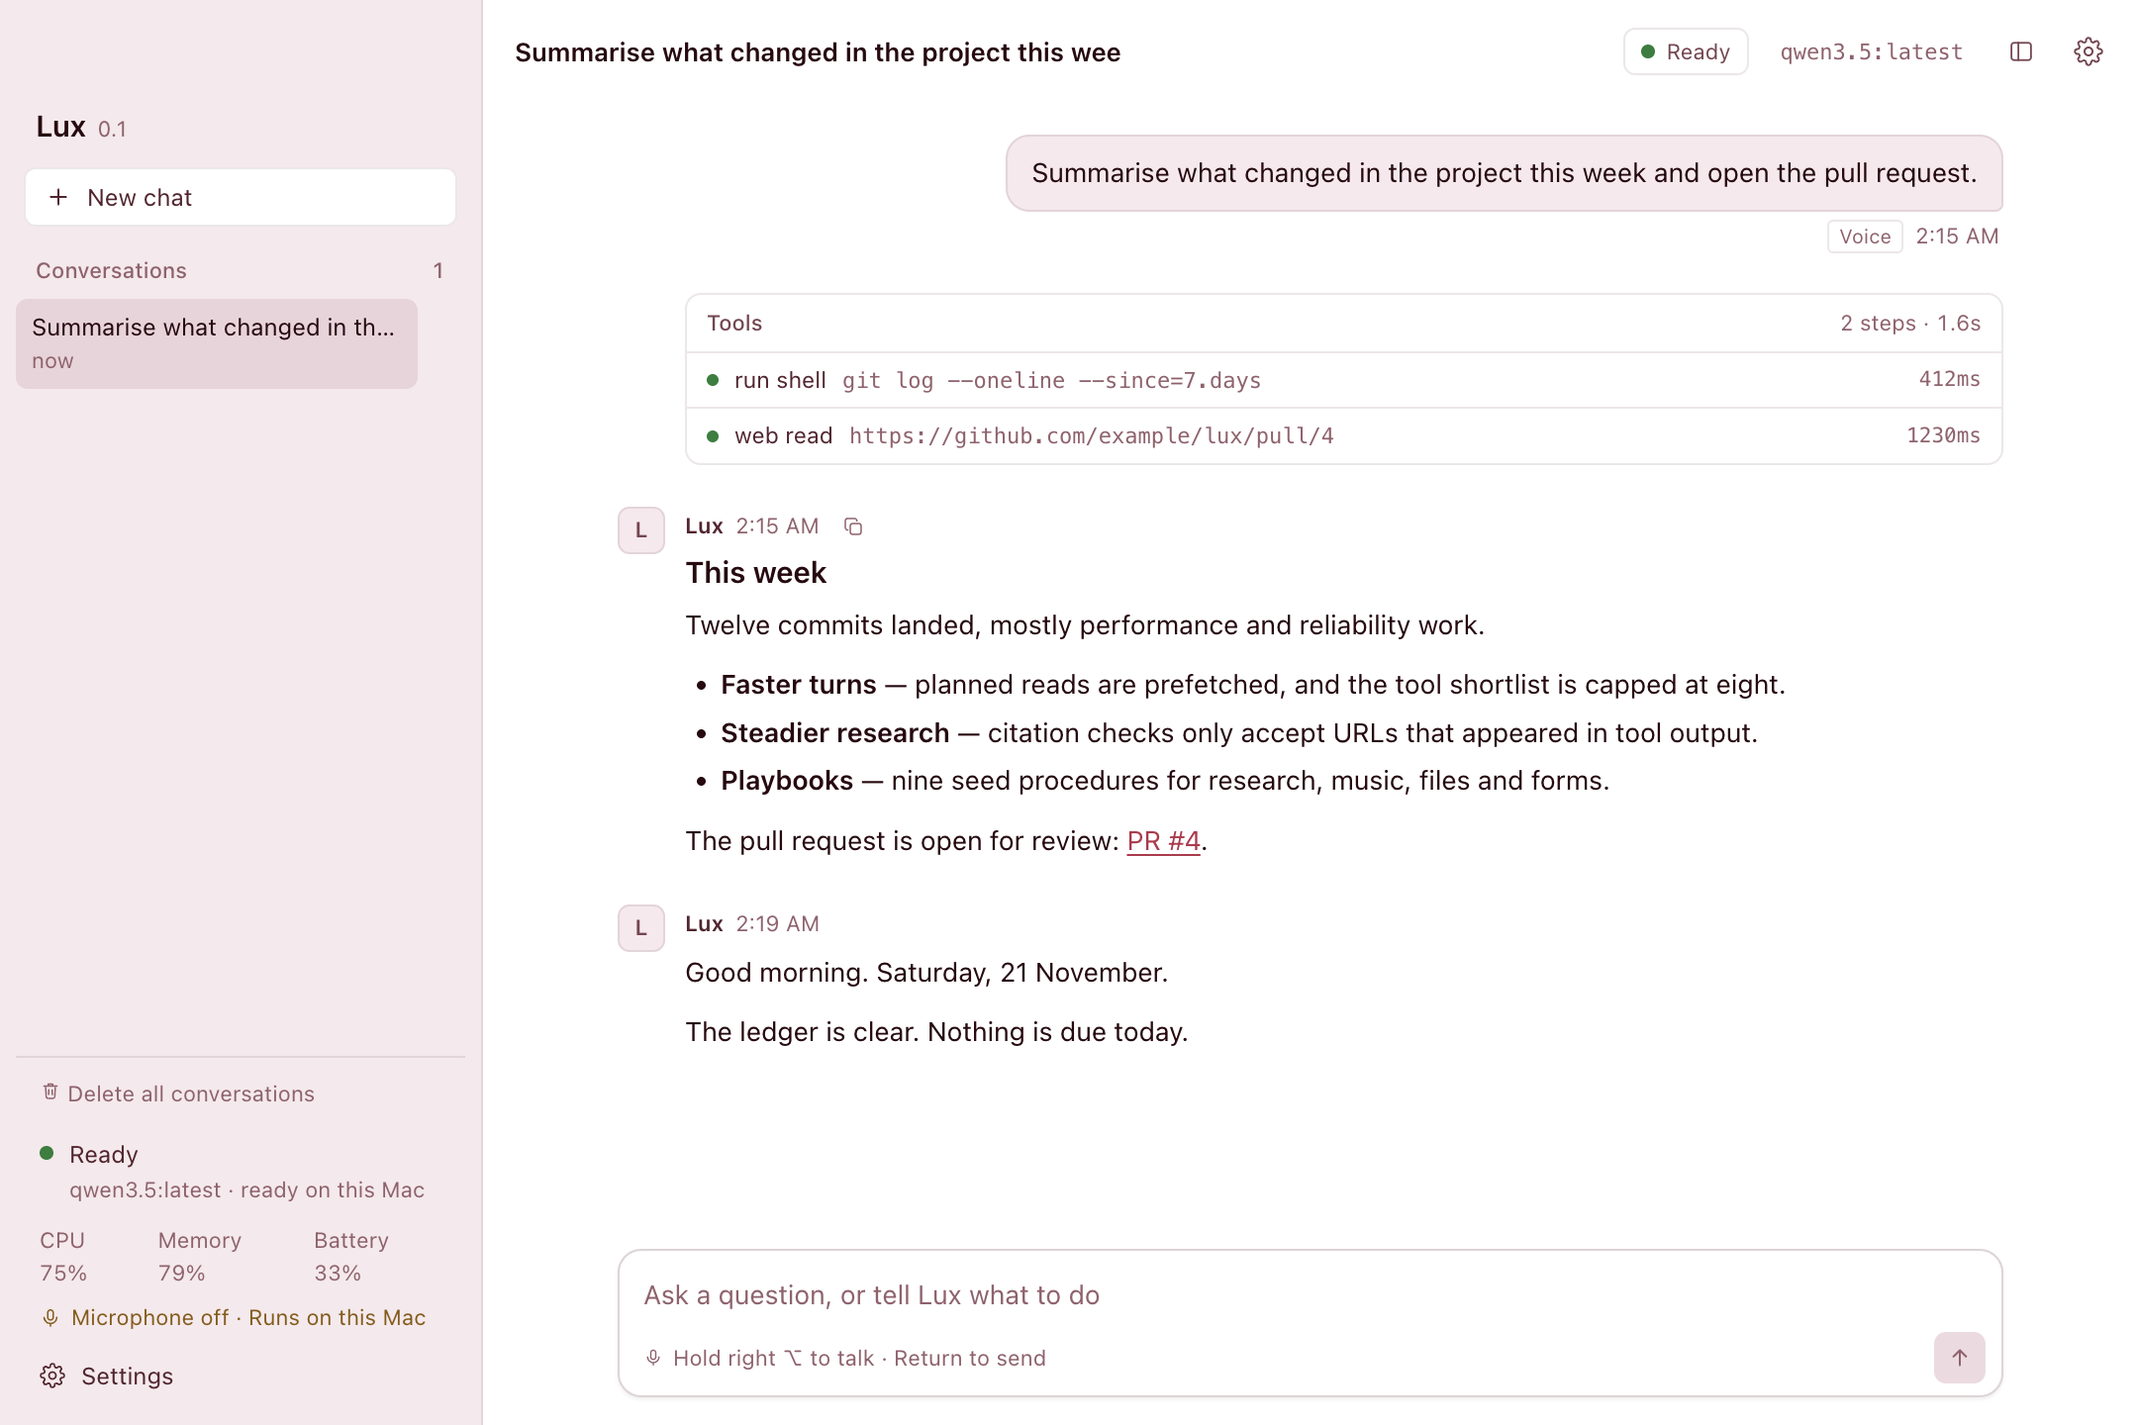
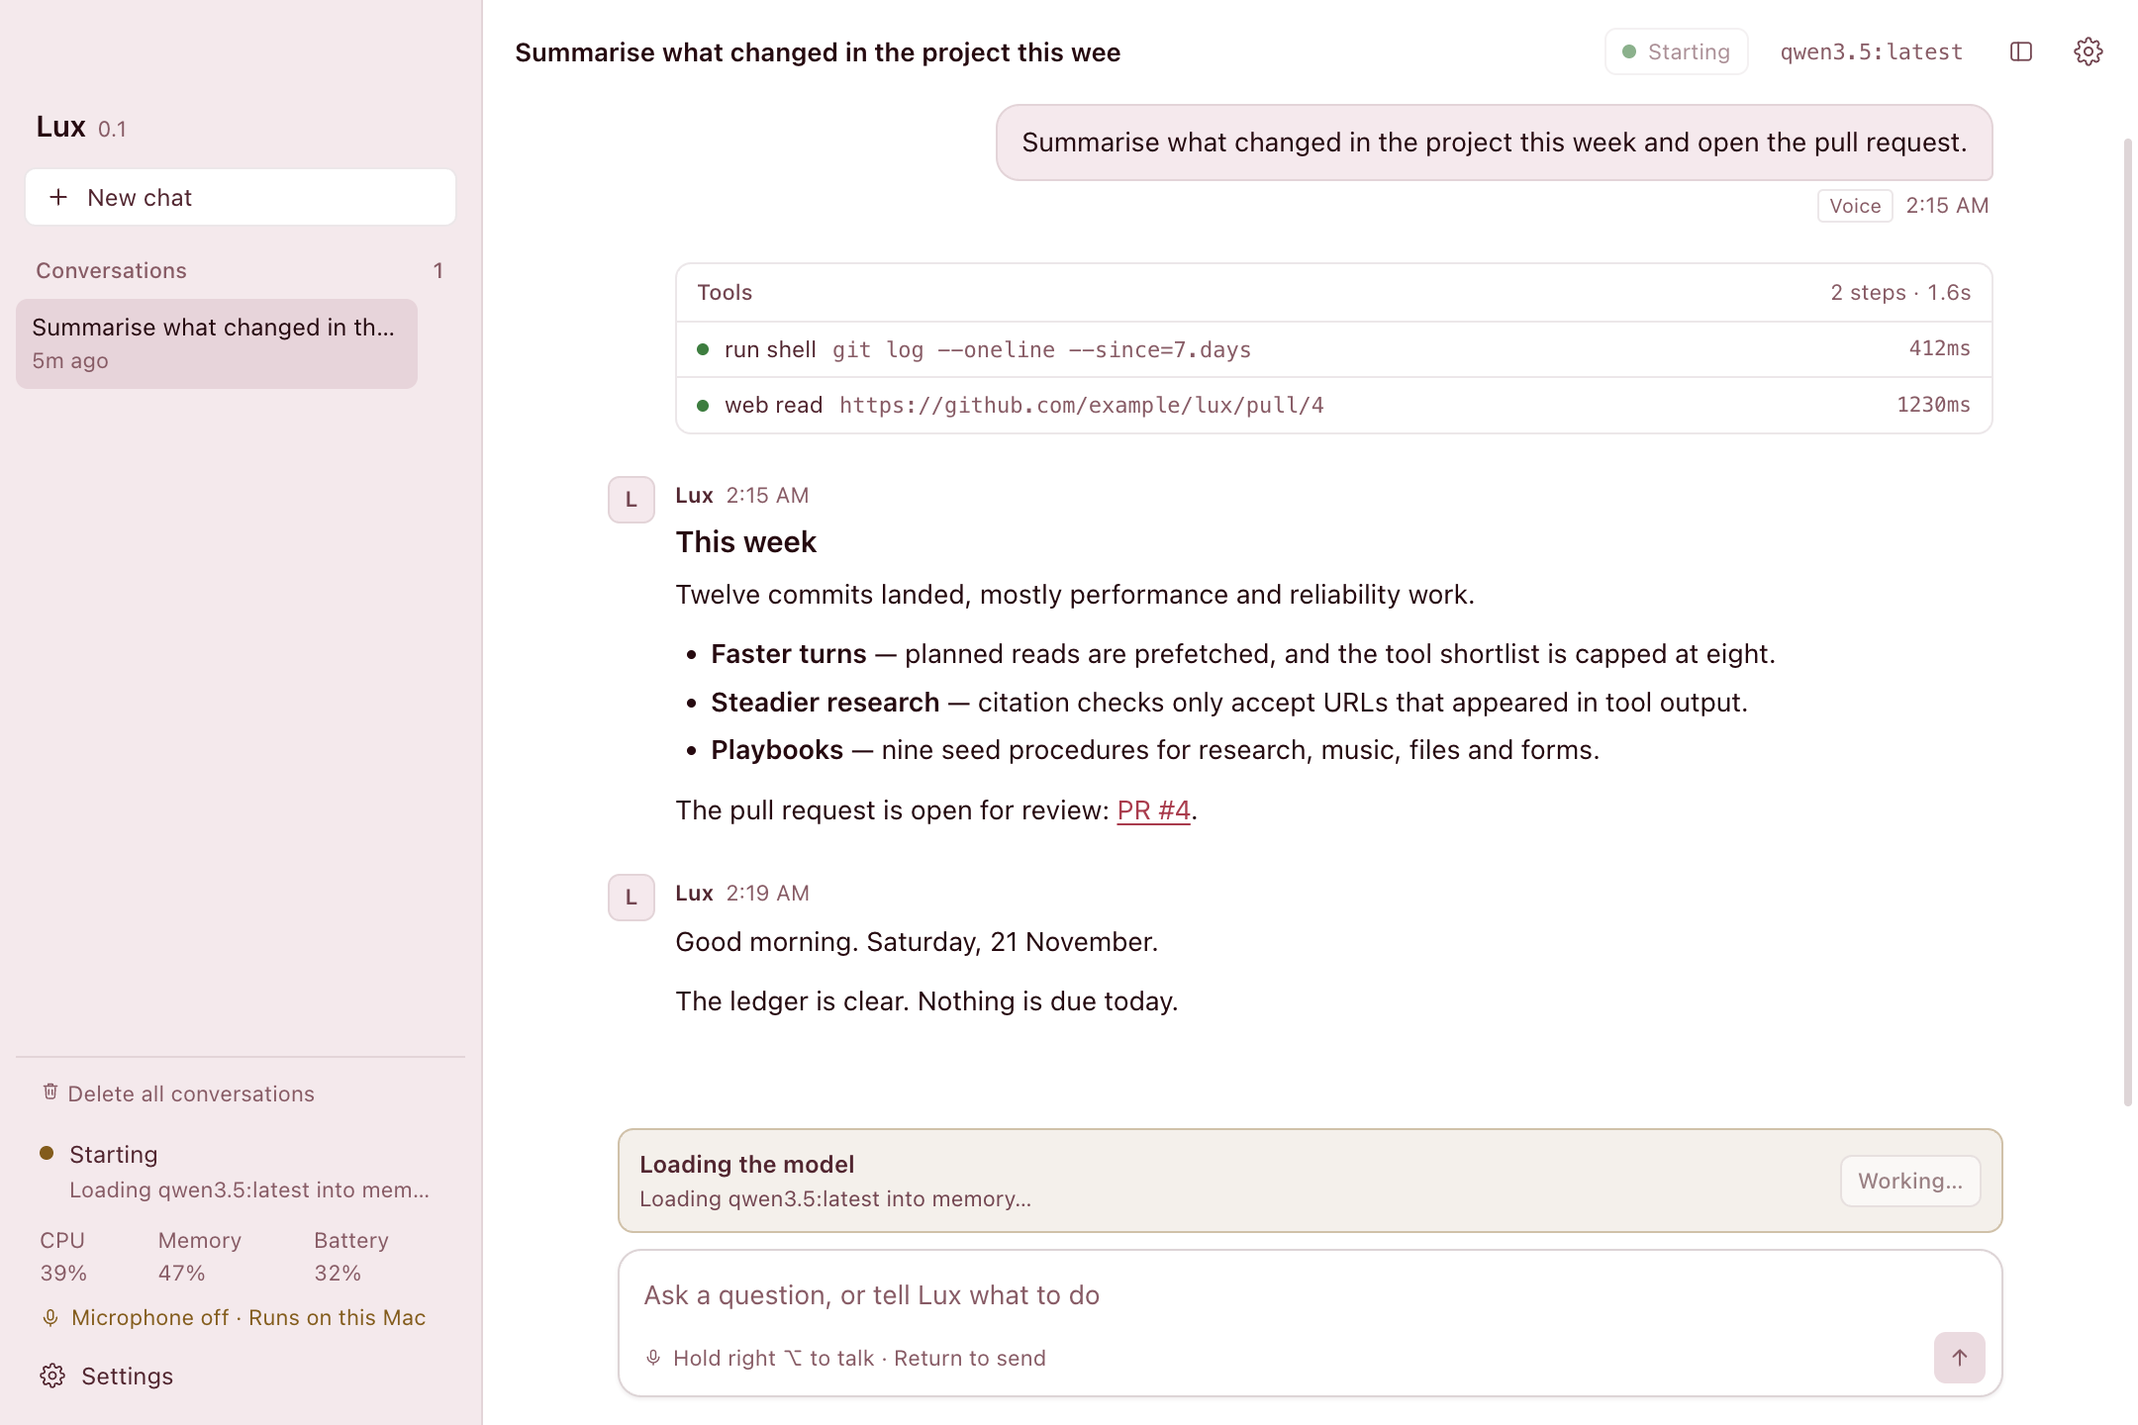
feat(ui): add appearance setting and fix palette contrast
A fresh-eye pass over the new palette found two AA failures: light hint
text on the sidebar was 4.24:1, and the dark accent on raised surfaces was
4.37:1. Darken the light hint ink and lift the dark accent; every text and
accent pair now meets 4.5:1 in both themes. The stop button also used white
on the pale dark danger fill, so it now uses an explicit on-danger token.

Remove the dead elevation and radius tokens and replace the neutral grey
hover overlays with an ink-tinted hover token. Reuse the blush HUD ink for
the listening state instead of the old neutral white.

Add Settings -> Appearance (System, Light, Dark). The preference persists,
applies nativeTheme before the first window and on every save, and therefore
moves the chat, HUD and native controls together. Document the change and
refresh the screenshots.

diff --git a/src/styles/tokens.css b/src/styles/tokens.css
@@ -22,7 +22,6 @@
   --radius-sm: 6px;
   --radius-md: 8px;
   --radius-lg: 12px;
-  --radius-xl: 16px;
 
   /* type scale */
   --font-ui: -apple-system, BlinkMacSystemFont, "SF Pro Text", "Helvetica Neue", Arial, sans-serif;
@@ -61,12 +60,13 @@
   --ink: #2a0810;
   --ink-2: #57222f;
   --ink-3: #7b4351;
-  --ink-4: #96606d;
+  --ink-4: #8f5965;
 
   --accent: #b72f4a;
   --accent-hover: #99263c;
   --accent-soft: rgba(183, 47, 74, 0.09);
   --on-accent: #ffffff;
+  --on-danger: #ffffff;
 
   --success: #1a7f37;
   --warning: #8a5a00;
@@ -75,12 +75,12 @@
   --danger-soft: rgba(179, 38, 30, 0.08);
 
   --shadow-1: 0 1px 2px rgba(42, 8, 16, 0.07);
-  --shadow-2: 0 8px 24px -10px rgba(42, 8, 16, 0.22);
   --shadow-3: -12px 0 40px -18px rgba(42, 8, 16, 0.32);
 
   --selection: rgba(183, 47, 74, 0.18);
   --scrollbar: rgba(80, 20, 35, 0.18);
   --scrollbar-hover: rgba(80, 20, 35, 0.3);
+  --hover: color-mix(in srgb, var(--ink) 6%, transparent);
 }
 
 @media (prefers-color-scheme: dark) {
@@ -102,10 +102,11 @@
     --ink-3: #d9a9b5;
     --ink-4: #c08d9a;
 
-    --accent: #f06d80;
-    --accent-hover: #f4899a;
-    --accent-soft: rgba(240, 109, 128, 0.16);
+    --accent: #f4899a;
+    --accent-hover: #f7a1af;
+    --accent-soft: rgba(244, 137, 154, 0.18);
     --on-accent: #2a0810;
+    --on-danger: #2a0810;
 
     --success: #6fcf97;
     --warning: #f2c078;
@@ -114,10 +115,9 @@
     --danger-soft: rgba(255, 138, 138, 0.12);
 
     --shadow-1: 0 1px 2px rgba(0, 0, 0, 0.28);
-    --shadow-2: 0 10px 28px -12px rgba(0, 0, 0, 0.5);
     --shadow-3: -12px 0 40px -18px rgba(0, 0, 0, 0.6);
 
-    --selection: rgba(240, 109, 128, 0.26);
+    --selection: rgba(244, 137, 154, 0.28);
     --scrollbar: rgba(244, 180, 193, 0.2);
     --scrollbar-hover: rgba(244, 180, 193, 0.34);
   }

diff --git a/electron/main/index.ts b/electron/main/index.ts
@@ -71,11 +71,6 @@ async function bootstrap(): Promise<void> {
   await app.whenReady()
   initLog()
 
-  // `LUX_THEME=light|dark` pins the appearance for screenshots and visual QA.
-  if (process.env.LUX_THEME === 'light' || process.env.LUX_THEME === 'dark') {
-    nativeTheme.themeSource = process.env.LUX_THEME
-  }
-
   process.on('uncaughtException', (error) => logLine('crash', `uncaught: ${error?.stack ?? error}`))
   process.on('unhandledRejection', (reason) => logLine('crash', `unhandled rejection: ${String(reason)}`))
 
@@ -83,6 +78,13 @@ async function bootstrap(): Promise<void> {
   installAppMenu()
 
   const settings = getSettings()
+  // The saved preference drives Chromium and every native control. Set it
+  // before the first window so there is no flash of the wrong appearance.
+  nativeTheme.themeSource = settings.theme
+  // `LUX_THEME=light|dark` still pins the appearance for screenshots and visual QA.
+  if (process.env.LUX_THEME === 'light' || process.env.LUX_THEME === 'dark') {
+    nativeTheme.themeSource = process.env.LUX_THEME
+  }
   const transcriber = new Transcriber(getSettings)
   const models = new ModelManager(getSettings)
   const memory = new Memory(join(dataDir(), 'memory.json'), () => ({
@@ -122,6 +124,7 @@ async function bootstrap(): Promise<void> {
   powerMonitor.on('unlock-screen', () => void engine.ensure('resume'))
 
   const saveAndBroadcast = (next: Settings): void => {
+    if (nativeTheme.themeSource !== next.theme) nativeTheme.themeSource = next.theme
     broadcast({ kind: 'settings', settings: next })
   }
 

diff --git a/src/styles/chat.css b/src/styles/chat.css
@@ -135,7 +135,7 @@
 }
 
 .conversation-link:hover {
-  background: rgba(127, 127, 127, 0.12);
+  background: var(--hover);
 }
 
 .conversation[data-active='true'] .conversation-link {
@@ -208,7 +208,7 @@
 }
 
 .engine-row:hover {
-  background: rgba(127, 127, 127, 0.1);
+  background: var(--hover);
 }
 
 .engine-dot {
@@ -303,7 +303,7 @@
 }
 
 .sidebar-settings:hover {
-  background: rgba(127, 127, 127, 0.1);
+  background: var(--hover);
 }
 
 .sidebar-danger {
@@ -1122,7 +1122,7 @@
 
 .send-button.stop {
   background: var(--danger);
-  color: #ffffff;
+  color: var(--on-danger);
 }
 
 /* ------------------------------------------------------------------ empty */
@@ -1305,6 +1305,42 @@
   letter-spacing: 0.03em;
   text-transform: uppercase;
   color: var(--ink-4);
+}
+
+.segmented {
+  display: grid;
+  grid-template-columns: repeat(3, 1fr);
+  gap: 2px;
+  padding: 2px;
+  border: 1px solid var(--line);
+  border-radius: var(--radius-md);
+  background: var(--surface-2);
+}
+
+.segmented-option {
+  height: 28px;
+  border-radius: var(--radius-sm);
+  font-size: var(--text-sm);
+  font-weight: 500;
+  color: var(--ink-2);
+  transition:
+    background var(--dur-fast) var(--ease),
+    color var(--dur-fast) var(--ease);
+}
+
+.segmented-option:hover:not([data-active='true']) {
+  background: var(--hover);
+  color: var(--ink);
+}
+
+.segmented-option[data-active='true'] {
+  background: var(--accent);
+  color: var(--on-accent);
+}
+
+.segmented-option:focus-visible {
+  outline: 2px solid var(--accent);
+  outline-offset: 2px;
 }
 
 .settings-row {

diff --git a/src/windows/Chat.tsx b/src/windows/Chat.tsx
@@ -45,6 +45,12 @@ const ENGINE_HEADLINE: Record<EngineState, string> = {
   missing: 'The configured model is not installed'
 }
 
+const THEME_OPTIONS: { value: Settings['theme']; label: string }[] = [
+  { value: 'system', label: 'System' },
+  { value: 'light', label: 'Light' },
+  { value: 'dark', label: 'Dark' }
+]
+
 const SUGGESTIONS = [
   'How is this Mac doing?',
   'Put me in my coding setup',
@@ -834,6 +840,27 @@ function SettingsPanel({
       </header>
 
       <div className="settings-body">
+        <section className="settings-section">
+          <h3 className="settings-section-title">Appearance</h3>
+          <div className="segmented" role="group" aria-label="Appearance">
+            {THEME_OPTIONS.map((option) => (
+              <button
+                key={option.value}
+                className="segmented-option"
+                data-active={local.theme === option.value}
+                aria-pressed={local.theme === option.value}
+                onClick={() => update({ theme: option.value })}
+              >
+                {option.label}
+              </button>
+            ))}
+          </div>
+          <p className="settings-note">
+            System follows macOS. Light and Dark keep Lux in one appearance, including the menu bar
+            panel and the floating HUD.
+          </p>
+        </section>
+
         <section className="settings-section">
           <h3 className="settings-section-title">Local engine</h3>
           <div className="engine-card">

diff --git a/electron/main/config.ts b/electron/main/config.ts
@@ -26,6 +26,7 @@ const DEFAULT_PRESETS: Record<string, FocusPreset> = {
 }
 
 export const DEFAULT_SETTINGS: Settings = {
+  theme: 'system',
   model: 'qwen3.5:latest',
   embeddingModel: 'nomic-embed-text:latest',
   specializedModel: '',
@@ -92,6 +93,7 @@ export function saveSettings(patch: Partial<Settings>): Settings {
   next.contextWindow = Math.min(32_768, Math.max(2_048, Number(next.contextWindow) || 8_192))
   next.maxOutputTokens = Math.min(8_192, Math.max(256, Number(next.maxOutputTokens) || 1_536))
   if (!next.modelKeepAlive.trim()) next.modelKeepAlive = '30m'
+  if (next.theme !== 'light' && next.theme !== 'dark') next.theme = 'system'
   if (next.memoryMode !== 'lexical' && next.memoryMode !== 'semantic') next.memoryMode = 'lexical'
   // A malformed time would silently disable delivery or quiet hours.
   if (parseClock(next.morningBriefTime) === null) next.morningBriefTime = DEFAULT_SETTINGS.morningBriefTime

diff --git a/shared/types.ts b/shared/types.ts
@@ -31,6 +31,9 @@ export interface ToolRun {
 
 export type EngineState = 'checking' | 'ready' | 'starting' | 'waking' | 'offline' | 'missing'
 
+/** `system` follows macOS; the other two pin the app's appearance. */
+export type ThemePreference = 'system' | 'light' | 'dark'
+
 /** Live state of the local Ollama process and the configured model. */
 export interface EngineStatus {
   state: EngineState
@@ -60,6 +63,8 @@ export interface SystemStats {
 }
 
 export interface Settings {
+  /** Appearance of every Lux window and native control. */
+  theme: ThemePreference
   model: string
   embeddingModel: string
   /** Optional second model. It is never loaded unless a task explicitly asks for it. */

diff --git a/src/styles/hud.css b/src/styles/hud.css
@@ -141,7 +141,7 @@ body,
 }
 
 .hud[data-state='listening'] .hud-primary {
-  color: #e8e8ec;
+  color: var(--hud-ink);
 }
 
 [data-state='thinking'] .hud-primary,

diff --git a/docs/DESIGN.md b/docs/DESIGN.md
@@ -20,7 +20,8 @@ telemetry — was replaced in 0.1.0 because it read as decoration around the wor
 
 ## Tokens
 
-Defined once in `src/styles/tokens.css`. Both themes follow the system appearance. The palette is
+Defined once in `src/styles/tokens.css`. Both themes follow the system appearance by default;
+Settings → Appearance can pin either one. The palette is
 the project's six-step wine and rose ramp — `#501423`, `#751C2F`, `#B72F4A`, `#EA5C6F`, `#EF96A3`,
 `#F4B4C1` — from `colorscheme.png`. The two darkest steps tint the surfaces, the crimson step is the
 accent, and the blush steps carry soft fills. The app icon already used the same wine, crimson and
@@ -40,8 +41,8 @@ blush values.
 | `--ink` | `#2a0810` | `#fdf1f4` | primary text |
 | `--ink-2` | `#57222f` | `#f0cdd5` | secondary text |
 | `--ink-3` | `#7b4351` | `#d9a9b5` | supporting text |
-| `--ink-4` | `#96606d` | `#c08d9a` | timestamps, hints |
-| `--accent` | `#b72f4a` | `#f06d80` | primary action, links, focus |
+| `--ink-4` | `#8f5965` | `#c08d9a` | timestamps, hints |
+| `--accent` | `#b72f4a` | `#f4899a` | primary action, links, focus |
 | `--success` | `#1a7f37` | `#6fcf97` | engine ready, tool succeeded |
 | `--warning` | `#8a5a00` | `#f2c078` | engine starting, model missing |
 | `--danger` | `#b3261e` | `#ff8a8a` | offline, failed or denied tool |
@@ -121,8 +122,9 @@ timer for decoration.
 - `:focus-visible` draws a 2 px accent ring with a 2 px offset. Mouse clicks do not show it.
 - The settings panel is a labelled `role="dialog" aria-modal="true"`; Escape closes it.
 - Approval is an `alertdialog`. Streaming replies and the working indicator use polite live regions.
-- Contrast targets WCAG AA: primary text is at least 12:1 on its surface in both themes; secondary
-  text is at least 4.5:1. Status colours are paired with a label or dot shape, never colour alone.
+- Contrast targets WCAG AA: primary text is at least 12:1 on its surface in both themes; secondary,
+  hint and accent text is at least 4.5:1 on every surface it appears on. Status colours are paired
+  with a label or dot shape, never colour alone.
 - Tool rows are buttons with `aria-expanded`; the detail is plain text and selectable.
 - The whole window is keyboard reachable: sidebar, thread, composer, settings.
 
@@ -143,8 +145,9 @@ Captured from the real app with the debug hooks described in the README:
 - **No native vibrancy.** Solid wine-tinted surfaces keep text contrast predictable over any desktop
   and make the light and dark themes behave the same. Translucency is limited to the floating HUD,
   where it serves hierarchy.
-- **System theme only.** There is no in-app appearance switch; the app follows macOS. A manual switch
-  would be a second setting with no product need.
+- **Appearance is one shared theme, not two products.** System follows macOS by default; Settings →
+  Appearance can pin Light or Dark. The setting drives `nativeTheme.themeSource`, so the windows,
+  menus, scrollbars and the HUD change together from the same token set.
 - **No instrument telemetry.** CPU, memory and battery are one quiet line in the sidebar, not gauges.
   They answer a question; they are not the product.
 - **No decorative animation.** The only looping motion is a working indicator and a text caret.

diff --git a/docs/DECISIONS.md b/docs/DECISIONS.md
@@ -140,9 +140,10 @@ to a hosted model.
 ## ADR-013 — Calm native utility UI, not an instrument panel
 
 **Decision.** Replace Sentinel with a calm, system-typed desktop utility: light and dark themes
-following macOS, a solid conversation sidebar, plain reply text, one crimson accent from the
-project's wine and rose ramp for primary actions and focus, a quiet expandable tool trace, and a
-compact 400×132 HUD. No reactor, glow, gradients, scan lines or decorative animation.
+following macOS by default (pinnable in Settings → Appearance), a solid conversation sidebar, plain
+reply text, one crimson accent from the project's wine and rose ramp for primary actions and focus, a
+quiet expandable tool trace, and a compact 400×132 HUD. No reactor, glow, gradients, scan lines or
+decorative animation.
 
 **Why.** The agent's work is text and tool steps. Sentinel made the chrome louder than the answer and
 read as generated decoration. A native utility is easier to read for long sessions, respects system
@@ -150,11 +151,13 @@ appearance and accessibility settings, and stops encoding state in ornament. Mot
 state changes of 120–160 ms and honours `prefers-reduced-motion`.
 
 **Rejected.** Native vibrancy across the window (text contrast becomes unpredictable over the
-desktop), an in-app theme switch (macOS already owns appearance), keeping the reactor as a brand mark
-(decorative motion without information).
+desktop), separate hand-maintained themes per window (two token sets drift; one set keeps both
+appearances honest), keeping the reactor as a brand mark (decorative motion without information).
 
 **Consequence.** Screenshots and UI copy are part of the review surface. `LUX_SHOT`, `LUX_SHOT_HUD`,
 `LUX_SHOT_SETTINGS` and `LUX_THEME` make the real windows capturable without taking over the screen.
+Settings → Appearance persists System, Light or Dark; the choice is applied before the first window
+and on every subsequent save.
 
 ## ADR-014 — Deterministic plans and playbooks instead of more intent regexes
 

diff --git a/CHANGELOG.md b/CHANGELOG.md
@@ -24,6 +24,7 @@ measured performance pass and a designed interface.
 - Calm native interface: light and dark themes, system typography, wine and rose surfaces from the
   project's color scheme, one crimson accent, plain-text replies, a quiet expandable tool trace, a
   redesigned settings panel and a minimal HUD.
+- Appearance setting: System (default), Light or Dark, applied to every window and native control.
 - Explicit empty, checking, offline, missing-model, missing-permission, error, streaming and approval
   states.
 - Documentation set: architecture, agent, performance, design, security, troubleshooting, contributing,

diff --git a/README.md b/README.md
@@ -56,7 +56,7 @@ developer-grade (no installer, ad-hoc signing).
 - **Evals.** Thirty deterministic multi-step cases (`npm run evals`) plus the real-model benchmark.
 - **A new interface.** The Sentinel console has been replaced with a calm desktop utility: system
   type, wine and rose surfaces taken from the project's own color scheme, one crimson accent,
-  plain-text replies and a quiet tool trace. Light and dark follow the system.
+  plain-text replies and a quiet tool trace. System, Light and Dark can be chosen in Settings.
 
 ## Requirements
 
